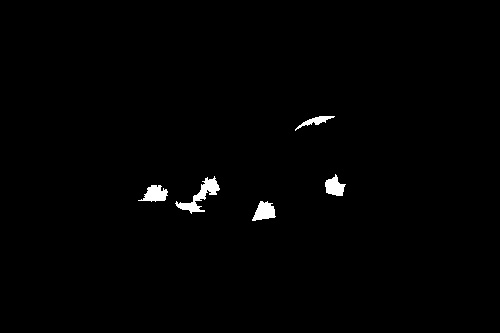
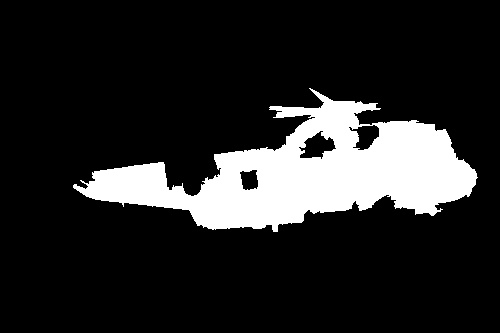
Added HOG and refactored feature vectors

Changed region(s): [[0.15, 0.2703, 0.96, 0.6907]]

diff --git a/algorithms/algorithms.py b/algorithms/algorithms.py
@@ -69,7 +69,7 @@ class Algorithms:
                 # Retrieve indices of segment i
                 indices = np.where(self.imgs_segmentation[img] == i)
                 # Center is mean of indices
-                self.imgs_segment_centers[img].append((np.median(indices[0]), np.median(indices[1])))
+                self.imgs_segment_centers[img].append((np.median(indices[1]), np.median(indices[0])))
 
     # sets the foreground of the image at image_path to segments
     def set_fg_segments(self, image_path, segments):
@@ -79,51 +79,43 @@ class Algorithms:
     def set_bg_segments(self, image_path, segments):
         self.imgs_background_segments[image_path] = segments
 
-    def compute_feature_vectors(self, mode='color', bins_h=5, bins_s=3, kp_size=32.0):
-        # TODO change order of loop and if statements
+    # By default calculates a feature vector consisting of means of B, G, R, H, S, V,
+    # and a histogram and their entropy of Hue (5 bins) and Saturation (3bins)
+    def compute_feature_vectors(self, means_bgr=True, means_hsv=True,
+                                h_hist=True, h_hist_bins=5, h_hist_entropy=True,
+                                s_hist=True, s_hist_bins=3, s_hist_entropy=True,
+                                hs_hist=False, hs_hist_bins_h=5, hs_hist_bins_s=3,
+                                sift=False, sift_kp_size=32.0,
+                                hog=False, hog_winSize=(32, 32), hog_blockSize=(16, 16), hog_blockStride=(8, 8),
+                                hog_cellSize=(8, 8), hog_bins=9):
         for img in self.images:
-            self.imgs_segment_feature_vectors[img] = [0 for id in self.imgs_segment_ids[img]]
+            self.imgs_segment_feature_vectors[img] = [0 for i in self.imgs_segment_ids[img]]
+            image_bgr = self.imgs_bgr[img]
+            image_hsv = cv2.cvtColor(image_bgr, cv2.COLOR_BGR2HSV)
+            image_gray = cv2.cvtColor(image_bgr, cv2.COLOR_BGR2GRAY)
             for segment in self.imgs_segment_ids[img]:
-                # If mode is color then feature vector is the flattened color histogram
-                if mode is 'color':
-                    feature = features.get_color_feature(self.imgs_bgr[img], self.imgs_segmentation[img] == segment, bins_h, bins_s)
-                elif mode is 'hsv':
-                    feature = features.get_hsv_histogram_feature(self.imgs_bgr[img], self.imgs_segmentation[img] == segment, bins_h, bins_s)
-                elif mode is 'sift':
-                    feature = features.get_sift_feature(self.imgs_bgr[img], self.imgs_segment_centers[img][segment][1],
-                                                        self.imgs_segment_centers[img][segment][0], kp_size)
-                else:
-                    print('Unknown feature mode: ' + mode)
-                    return
-                self.imgs_segment_feature_vectors[img][segment] = feature
+                feature_vector = []
+                mask = np.uint8(self.imgs_segmentation[img] == segment)
+                coord_xy = (self.imgs_segment_centers[img][segment][0], self.imgs_segment_centers[img][segment][1])
+                if means_bgr:
+                    feature_vector += features.get_means_bgr_fv(image_bgr, mask)
+                if means_hsv:
+                    feature_vector += features.get_means_hsv_fv(image_hsv, mask)
+                if h_hist:
+                    feature_vector += features.get_h_hist_fv(image_hsv, mask, h_hist_bins, h_hist_entropy)
+                if s_hist:
+                    feature_vector += features.get_s_hist_fv(image_hsv, mask, s_hist_bins, s_hist_entropy)
+                if hs_hist:
+                    feature_vector += features.get_normalized_hs_hist_fv(image_hsv, mask, hs_hist_bins_h, hs_hist_bins_s)
+                if sift:
+                    feature_vector += features.get_sift_fv(image_gray, coord_xy[0], coord_xy[1], sift_kp_size)
+                if hog:
+                    feature_vector += features.get_hog_fv(image_bgr, coord_xy[0], coord_xy[1], hog_winSize, hog_blockSize, hog_blockStride, hog_cellSize, hog_bins)
+                assert len(feature_vector) > 0, 'Feature vector needs to have at least one feature'
+                self.imgs_segment_feature_vectors[img][segment] = np.asarray(feature_vector, dtype='float32')
 
-    # To be used after superpixel segmentation and feature extraction.
-    # Splits superpixels up up in num_clusters using the given method.
-    def perform_clustering(self, num_clusters=2, method='kmeans'):
-        data = []
-        # combine the feature vectors into one list
-        for img in self.images:
-            for segment in self.imgs_segment_ids[img]:
-                data.append(self.imgs_segment_feature_vectors[img][segment])
-
-        # find the indices of each part in the data list
-        indices = np.cumsum([len(self.imgs_segment_ids[img]) for img in self.images])
-
-        if method is 'spectral':
-            segmentations = clustering.spectral(data, num_clusters)
-        elif method is 'kmeans':
-            segmentations = clustering.k_means(data, num_clusters)
-        else:
-            print('Unknown clustering method: ' + method)
-            return
-
-        for i, img in enumerate(self.images):
-            # Get segmentation for current image
-            segmentation = segmentations[(indices[i - 1] % indices[-1]):indices[i]]
-            # For each pixel in superpixel segmentation look up the cluster of its superpixel
-            self.imgs_cosegmented[img] = [segmentation[pixel] for pixel in self.imgs_segmentation[img]]
-
-    # Fits several Gaussian Mixture Model to the foreground and background superpixels depending on the range given and chooses the best fit
+    # Fits several Gaussian Mixture Model to the foreground and background superpixels depending on the range given
+    # and chooses the best fit
     def compute_gmm(self, n_init=10, num_components_range=range(5, 9)):
         # group the foreground and background segments' feature vectors in one list
         feature_vectors_fg = [self.imgs_segment_feature_vectors[img][fg_segment] for img in self.images for fg_segment
@@ -245,6 +237,32 @@ class Algorithms:
             self.imgs_cosegmented[img] = np.where(np.isin(self.imgs_segmentation[img], np.nonzero(graph_cut)), True,
                                                   False)
 
+    # To be used after superpixel segmentation and feature extraction.
+    # Splits superpixels up up in num_clusters using the given method.
+    def perform_clustering(self, num_clusters=2, method='kmeans'):
+        data = []
+        # combine the feature vectors into one list
+        for img in self.images:
+            for segment in self.imgs_segment_ids[img]:
+                data.append(self.imgs_segment_feature_vectors[img][segment])
+
+        # find the indices of each part in the data list
+        indices = np.cumsum([len(self.imgs_segment_ids[img]) for img in self.images])
+
+        if method is 'spectral':
+            segmentations = clustering.spectral(data, num_clusters)
+        elif method is 'kmeans':
+            segmentations = clustering.k_means(data, num_clusters)
+        else:
+            print('Unknown clustering method: ' + method)
+            return
+
+        for i, img in enumerate(self.images):
+            # Get segmentation for current image
+            segmentation = segmentations[(indices[i - 1] % indices[-1]):indices[i]]
+            # For each pixel in superpixel segmentation look up the cluster of its superpixel
+            self.imgs_cosegmented[img] = [segmentation[pixel] for pixel in self.imgs_segmentation[img]]
+
     def get_segment_boundaries(self, img_path):
         return find_boundaries(self.imgs_segmentation[img_path])
 
@@ -296,7 +314,13 @@ if __name__ == '__main__':
     # alg.save_segmented_images('output/superpixel')
 
     # Extract features
-    alg.compute_feature_vectors(mode='color', bins_h=5, bins_s=3, kp_size=32.0)
+    alg.compute_feature_vectors(means_bgr=True, means_hsv=True,
+                                h_hist=True, h_hist_bins=5, h_hist_entropy=True,
+                                s_hist=True, s_hist_bins=3, s_hist_entropy=True,
+                                hs_hist=False, hs_hist_bins_h=5, hs_hist_bins_s=3,
+                                sift=False, sift_kp_size=32.0,
+                                hog=False, hog_winSize=(32, 32), hog_blockSize=(16, 16), hog_blockStride=(8, 8),
+                                hog_cellSize=(8, 8), hog_bins=9)
 
     # Retrieve foreground and background segments from marking images in markings folder
     # marking images should be white with red pixels indicating foreground and blue pixels indicating background and
@@ -318,7 +342,7 @@ if __name__ == '__main__':
     alg.compute_node_uncertainties()
     alg.compute_edge_uncertainties()
 
-    # alg.perform_clustering(6, 'kmeans')
+    #alg.perform_clustering(6, 'kmeans')
     alg.perform_graph_cut(pairwise_term_scale=-np.infty, scale_parameter=1.0)
 
     for image in image_paths:
@@ -346,5 +370,4 @@ if __name__ == '__main__':
 
 # TODO more control of GMM fitting
 # TODO add initialization function for dictionaries
-# TODO add HOG
 

diff --git a/algorithms/features.py b/algorithms/features.py
@@ -3,37 +3,45 @@ import numpy as np
 from scipy.stats import entropy
 
 
-# Calculates a feature vector consisting of means of B, G, R, H, S, V,
-# and a histogram and their entropy of Hue (5 bins) and Saturation (3bins)
-def get_color_feature(image_bgr, mask, bins_h=5, bins_s=3):
-    image_hsv = cv2.cvtColor(image_bgr, cv2.COLOR_BGR2HSV)
-    mask = np.uint8(mask)
-
-    means_BGR = np.asarray(cv2.mean(image_bgr, mask)[0:3])
-    means_HSV = np.asarray(cv2.mean(image_hsv, mask)[0:3])
-
-    hist_H = cv2.calcHist([image_hsv], [0], mask, [bins_h], [0, 181]).flatten()
-    entropy_H = entropy(hist_H)
-
-    hist_S = cv2.calcHist([image_hsv], [1], mask, [bins_s], [0, 256]).flatten()
-    entropy_S = entropy(hist_S)
-
-    return np.concatenate((means_BGR, means_HSV, hist_H, [entropy_H], hist_S, [entropy_S])).astype('float32')
+def get_means_bgr_fv(image_bgr, mask):
+    return cv2.mean(image_bgr, mask)[0:3]
 
 
-# Calculates a feature vector from a normalized hsv histogram of bins_h and bins_s
-def get_hsv_histogram_feature(image_bgr, mask, bins_h=20, bins_s=20):
-    image_hsv = cv2.cvtColor(image_bgr, cv2.COLOR_BGR2HSV)
+def get_means_hsv_fv(image_hsv, mask):
+    return cv2.mean(image_hsv, mask)[0:3]
+
+
+def get_h_hist_fv(image_hsv, mask, bins, include_entropy=False):
+    hist_h = cv2.calcHist([image_hsv], [0], mask, [bins], [0, 181]).flatten().tolist()
+    if include_entropy:
+        return hist_h + [entropy(hist_h)]
+    return hist_h
+
+
+def get_s_hist_fv(image_hsv, mask, bins, include_entropy=False):
+    hist_s = cv2.calcHist([image_hsv], [1], mask, [bins], [0, 256]).flatten().tolist()
+    if include_entropy:
+        return hist_s + [entropy(hist_s)]
+    return hist_s
+
+
+# Calculates a feature vector from a normalized hs histogram of bins_h and bins_s
+def get_normalized_hs_hist_fv(image_hsv, mask, bins_h=5, bins_s=3):
     histogram = cv2.calcHist([image_hsv], [0, 1], np.uint8(mask), [bins_h, bins_s], [0, 181, 0, 256]).flatten()
-    return np.float32(histogram / histogram.sum())
+    return (histogram / histogram.sum()).tolist()
 
 
 # Calculates a feature vector from the sift descriptor obtained from a keypoint at location (kp_x, kp_y)
 # and size kp_size, with a fixed angle of -1
-def get_sift_feature(image_bgr, kp_x, kp_y, kp_size=32.0):
+def get_sift_fv(image_gray, coord_x, coord_y, kp_size=32.0):
     sift = cv2.xfeatures2d_SIFT.create()
-    image_gray = cv2.cvtColor(image_bgr, cv2.COLOR_BGR2GRAY)
-    kp = cv2.KeyPoint(kp_x, kp_y, kp_size, -1)
+    kp = cv2.KeyPoint(coord_x, coord_y, kp_size, -1)
     kp, desc = sift.compute(image_gray, [kp])
-    return np.float32(desc[0])
+    return desc[0].tolist()
 
+
+def get_hog_fv(image_bgr, coord_x, coord_y, winSize=(32, 32), blockSize=(16, 16), blockStride=(8, 8),
+               cellSize=(8, 8), bins=9):
+    hog = cv2.HOGDescriptor(winSize, blockSize, blockStride, cellSize, bins)
+    hist = hog.compute(image_bgr, locations=[(coord_x-winSize[0], coord_y-winSize[1])])
+    return hist.flatten().tolist()
